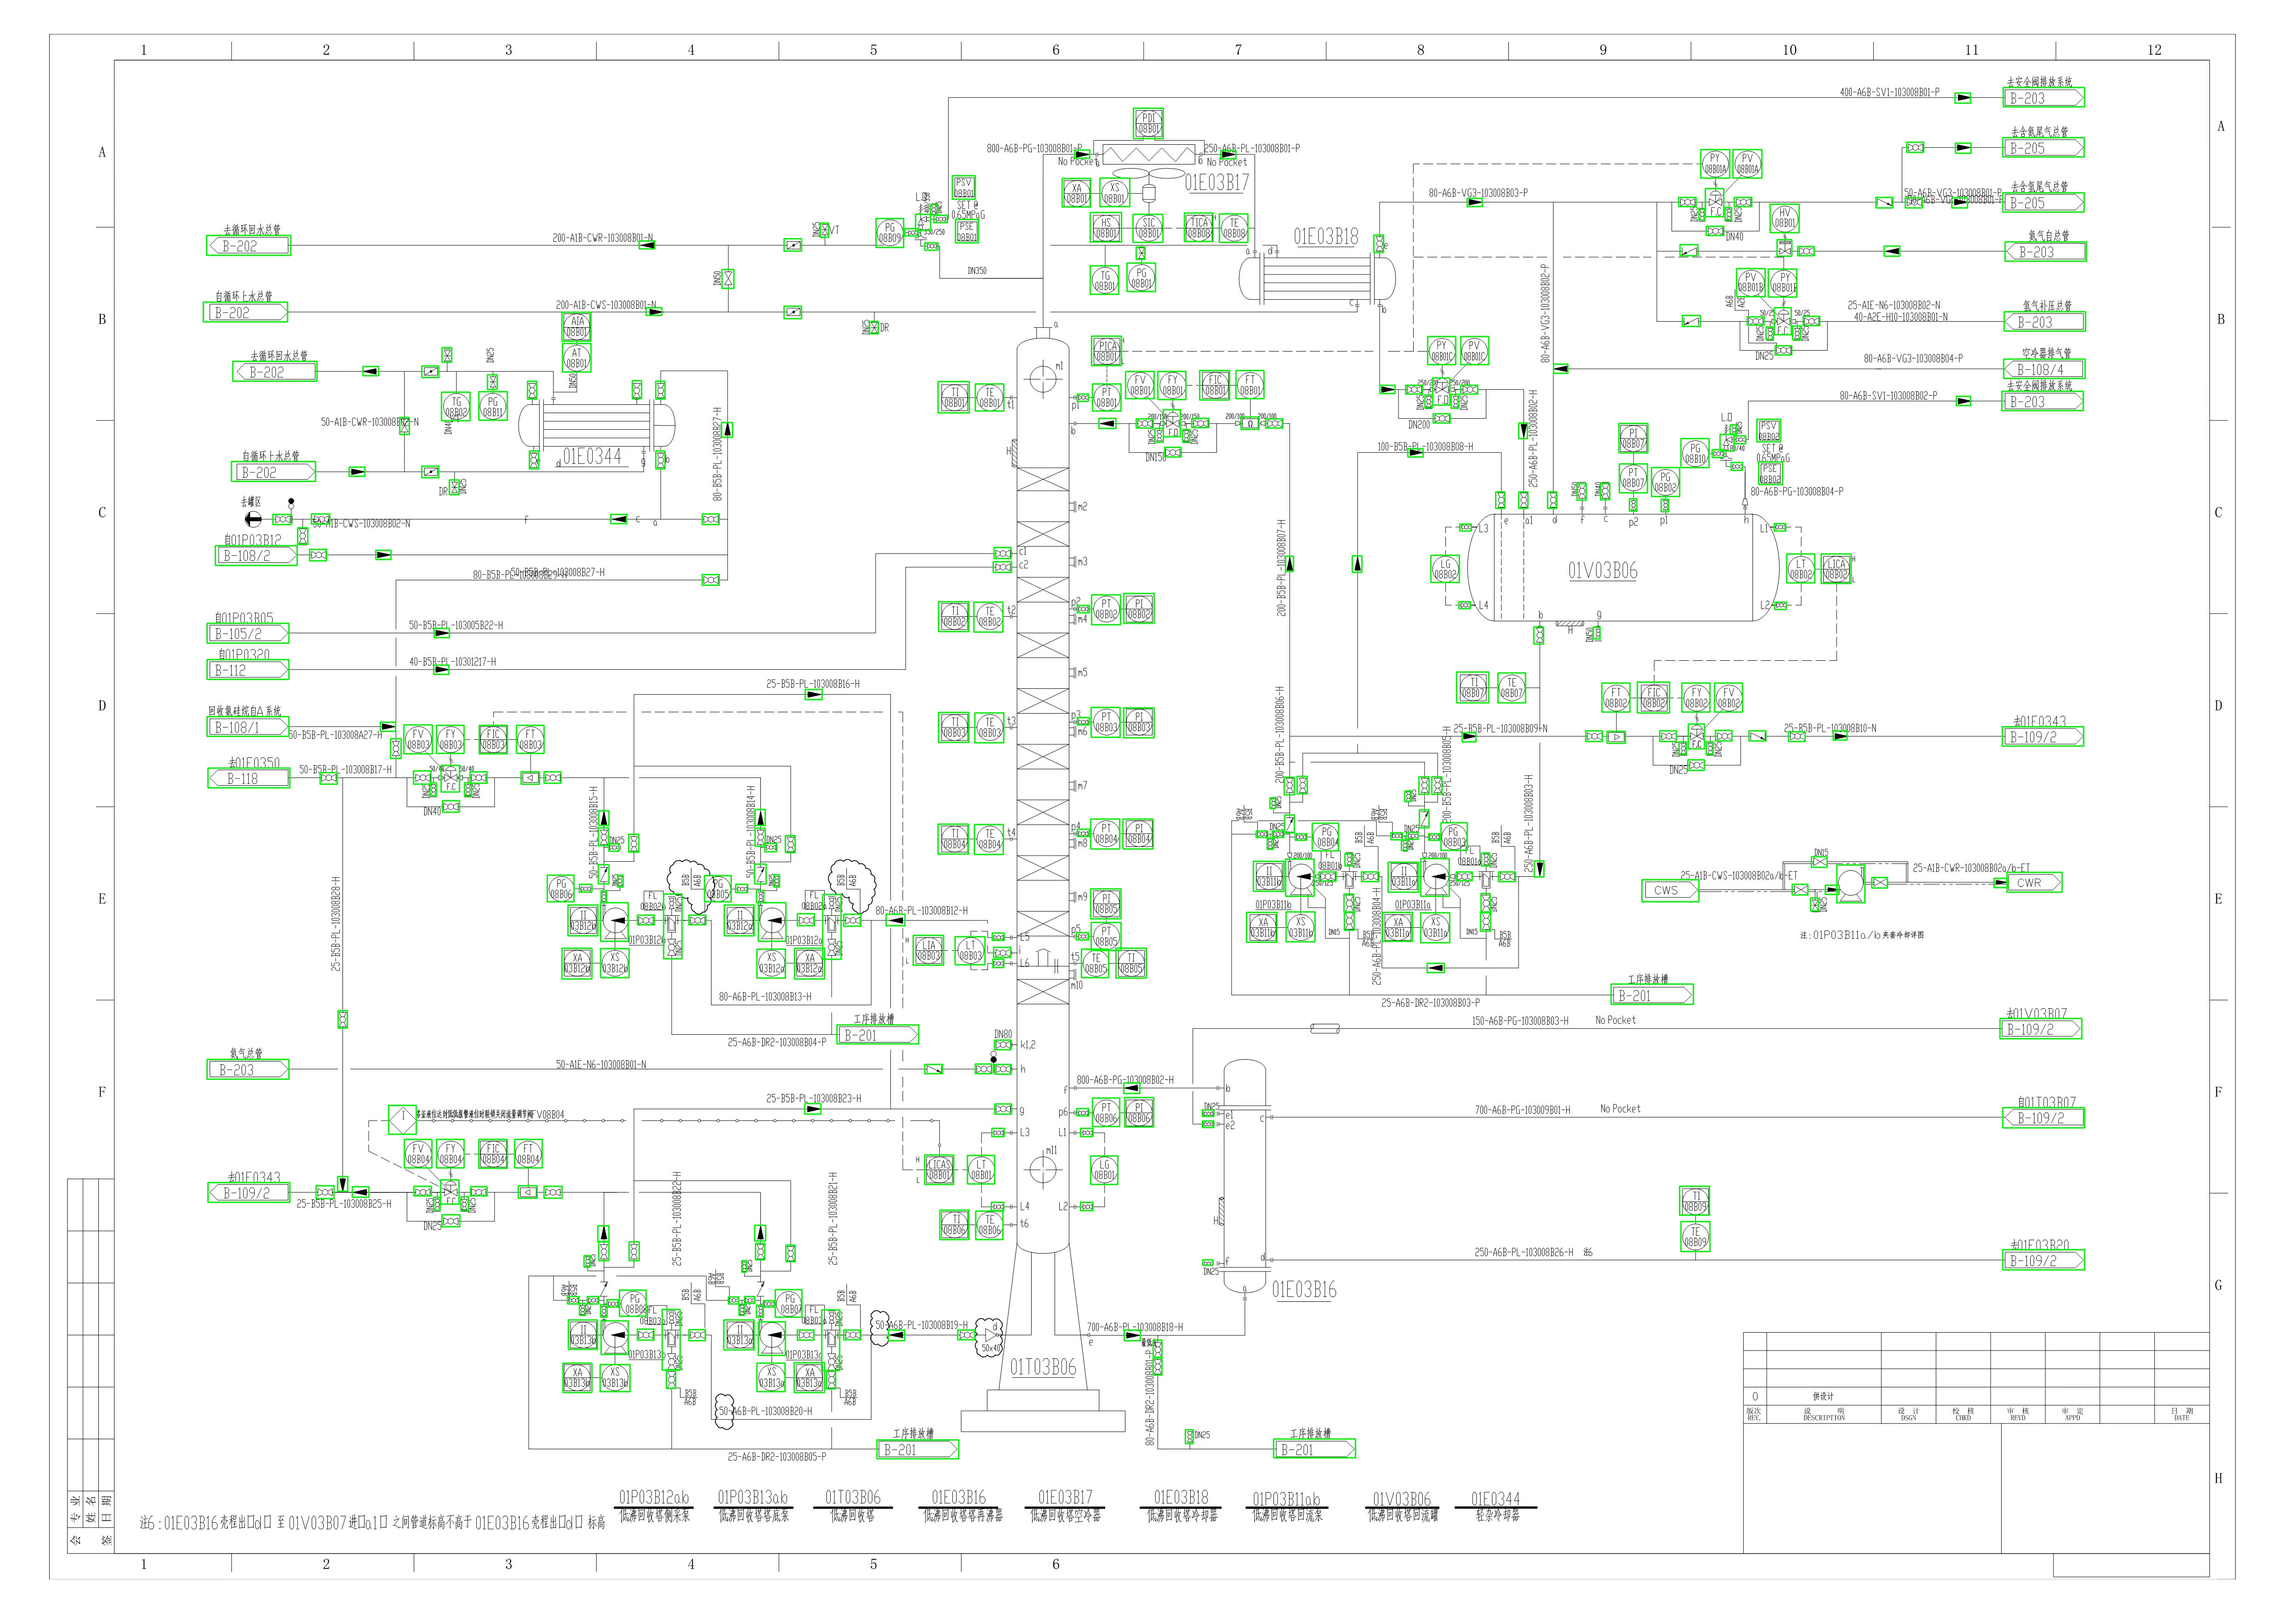
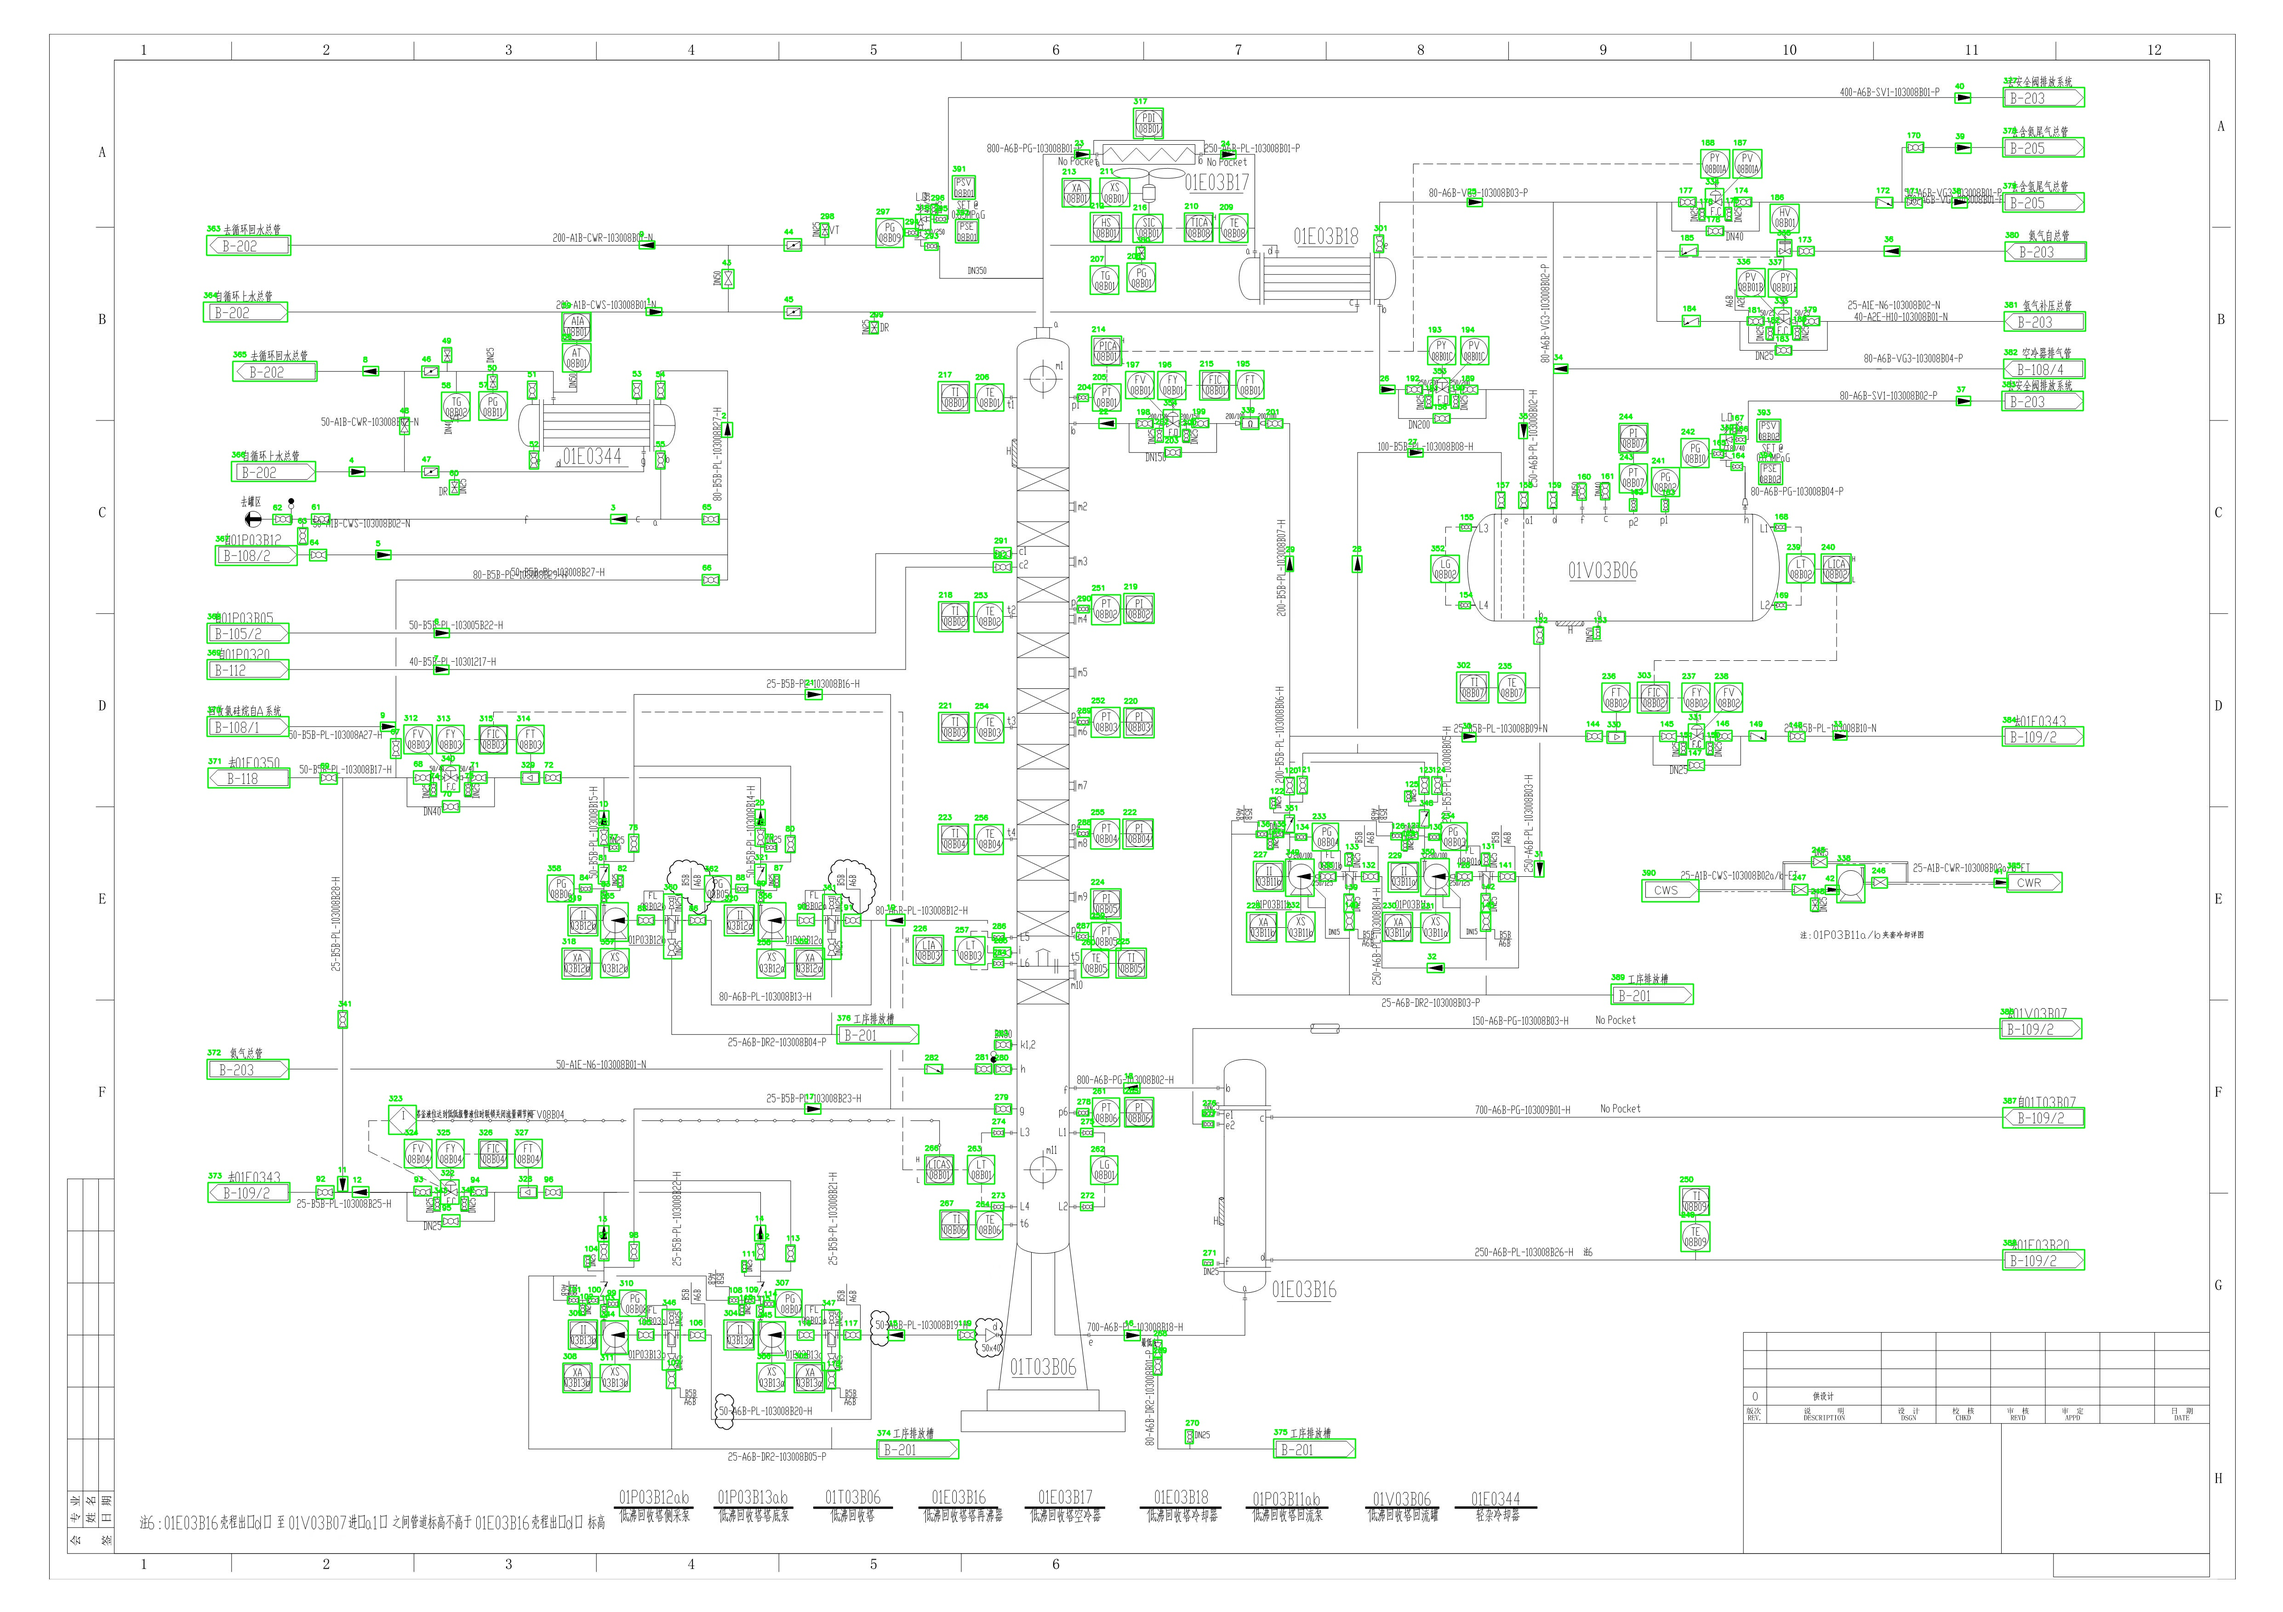
Update line detection

diff --git a/src/app/services/line_detection/line_segments_service.py b/src/app/services/line_detection/line_segments_service.py
@@ -200,12 +200,13 @@ if __name__ == "__main__":
             bottomY=int(obj.find('bndbox').find('ymax').text),
         ))
     symbol_image = cv2.imread(image_path, cv2.IMREAD_COLOR)
-    for bbox in symbol_bboxes:
+    for i, bbox in enumerate(symbol_bboxes):
         xmin = int(bbox.topX)
         ymin = int(bbox.topY)
         xmax = int(bbox.bottomX)
         ymax = int(bbox.bottomY)
         cv2.rectangle(symbol_image, (xmin, ymin), (xmax, ymax), (0, 255, 0), 2)
+        cv2.putText(symbol_image, f'{i}', (xmin, ymin - 10), cv2.FONT_HERSHEY_SIMPLEX, 0.5, (0, 255, 0), 2)
     cv2.imwrite(os.path.join(os.path.dirname(__file__), 'input', 'symbol_detection_results.jpg'), symbol_image)
 
     text_bboxes: list[BoundingBox] = []
@@ -218,12 +219,13 @@ if __name__ == "__main__":
             bottomY=int(obj.find('bndbox').find('ymax').text),
         ))
     text_image = cv2.imread(image_path, cv2.IMREAD_COLOR)
-    for bbox in text_bboxes:
+    for i, bbox in enumerate(text_bboxes):
         xmin = int(bbox.topX)
         ymin = int(bbox.topY)
         xmax = int(bbox.bottomX)
         ymax = int(bbox.bottomY)
         cv2.rectangle(text_image, (xmin, ymin), (xmax, ymax), (255, 0, 0), 2)
+        cv2.putText(text_image, f'{i}', (xmin, ymin - 10), cv2.FONT_HERSHEY_SIMPLEX, 0.5, (255, 0, 0), 2)
     cv2.imwrite(os.path.join(os.path.dirname(__file__), 'input', 'text_detection_results.jpg'), text_image)
 
     image = cv2.imdecode(np.frombuffer(image_bytes, np.uint8), cv2.IMREAD_COLOR)
@@ -253,12 +255,13 @@ if __name__ == "__main__":
     )
 
     line_image = cv2.imread(image_path, cv2.IMREAD_COLOR)
-    for line in lines_list:
+    for i, line in enumerate(lines_list):
         xmin = int(line.startX * image_width)
         ymin = int(line.startY * image_height)
         xmax = int(line.endX * image_width)
         ymax = int(line.endY * image_height)
         cv2.line(line_image, (xmin, ymin), (xmax, ymax), (0, 0, 255), 2)
+        cv2.putText(line_image, f'{i}', (xmin, ymin - 5), cv2.FONT_HERSHEY_SIMPLEX, 0.5, (0, 0, 255), 2)
     cv2.imwrite(os.path.join(os.path.dirname(__file__), 'output', 'line_detection_results.jpg'), line_image)
 
     results_output_path = os.path.join(os.path.dirname(__file__), 'output',
